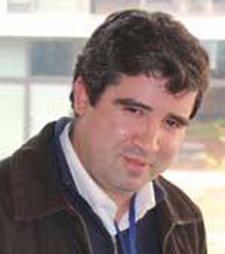
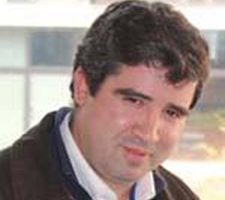
team members

diff --git a/index.html b/index.html
@@ -225,7 +225,7 @@
                                             </div>
                                             <div class="col-xs-6 col-sm-3"> 
                                                 <div class="team-member">
-                                                    <img src="img/team/4.jpg" class="img-responsive img-circle" alt=""></img>
+                                                    <img src="img/team/2.jpg" class="img-responsive img-circle" alt=""></img>
                                                     <h4>Francisco do Vale</h4>
                                                     <p class="text-muted">Doutorado em Ciências da Vida, Ortodontia</p>
 
